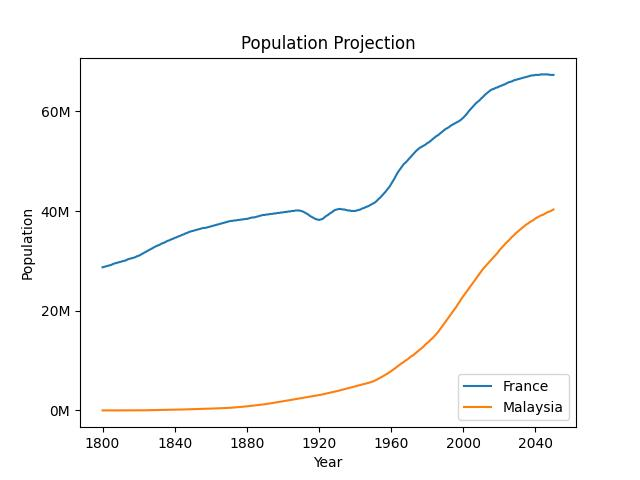
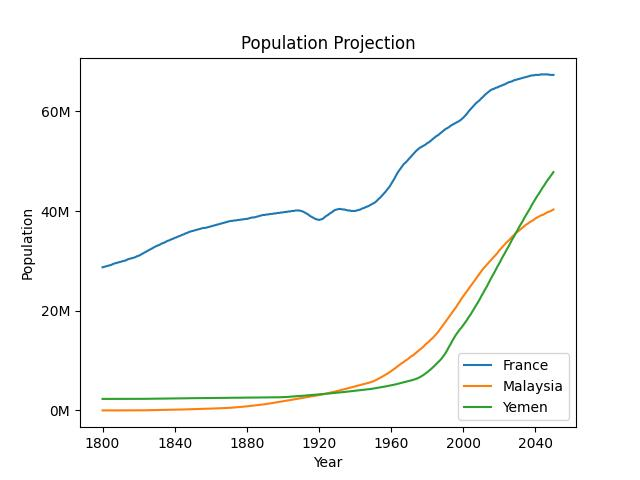
tqdm

diff --git a/python-0-starting/ex03/NULL_not_found.py b/python-0-starting/ex03/NULL_not_found.py
@@ -1,31 +1,18 @@
-# **************************************************************************** #
-#                                                                              #
-#                                                         :::      ::::::::    #
-#    NULL_not_found.py                                  :+:      :+:    :+:    #
-#                                                     +:+ +:+         +:+      #
-#    By: folim <folim@student.42kl.edu.my>          +#+  +:+       +#+         #
-#                                                 +#+#+#+#+#+   +#+            #
-#    Created: 2023/09/18 18:20:52 by folim             #+#    #+#              #
-#    Updated: 2023/09/18 18:20:53 by folim            ###   ########.fr        #
-#                                                                              #
-# **************************************************************************** #
-
-
 def NULL_not_found(object: any) -> int:
-	if object is None:
-		print("Nothing: None", str(type(None)))
-	elif type(object) is float and object != object:
-			print("Cheese: nan", type(object))
-	elif type(object) is int and object == 0:
-		print("Zero: 0", type(object))
-	elif type(object) is str and object == "":
-		print("Empty:", type(object))
-	elif type(object) is bool and object is False:
-		print("Fake: False", type(object))
-	else:
-		print("Type not Found")
-		return 1
-	return 0
-	
-#object != object is simillar to NaN, defined to be not
-#equal to itself
+    if object is None:
+        print("Nothing: None", str(type(None)))
+    elif type(object) is float and object != object:
+        print("Cheese: nan", type(object))
+    elif type(object) is int and object == 0:
+        print("Zero: 0", type(object))
+    elif type(object) is str and object == "":
+        print("Empty:", type(object))
+    elif type(object) is bool and object is False:
+        print("Fake: False", type(object))
+    else:
+        print("Type not Found")
+        return 1
+    return 0
+
+    # object != object is simillar to NaN, defined to be not
+    # equal to itself

diff --git a/python-0-starting/ex04/whatis.py b/python-0-starting/ex04/whatis.py
@@ -1,43 +1,32 @@
-# **************************************************************************** #
-#                                                                              #
-#                                                         :::      ::::::::    #
-#    whatis.py                                          :+:      :+:    :+:    #
-#                                                     +:+ +:+         +:+      #
-#    By: folim <folim@student.42kl.edu.my>          +#+  +:+       +#+         #
-#                                                 +#+#+#+#+#+   +#+            #
-#    Created: 2023/09/18 22:22:16 by folim             #+#    #+#              #
-#    Updated: 2023/09/18 22:22:17 by folim            ###   ########.fr        #
-#                                                                              #
-# **************************************************************************** #
-
 import sys
 
+
 def count_argv(argv):
-	count = 0
-	for _ in argv[1:]:
-		count += 1
-	return count
+    count = 0
+    for _ in argv[1:]:
+        count += 1
+    return count
 
 
 if count_argv(sys.argv) < 1:
-	sys.exit(1)
+    sys.exit(1)
 try:
-	if count_argv(sys.argv) > 1:
-		raise AssertionError("more than one argument is provided")
+    if count_argv(sys.argv) > 1:
+        raise AssertionError("more than one argument is provided")
 except AssertionError as e:
-	print(f"AssertionError: {e}")
-	sys.exit(1)
+    print(f"AssertionError: {e}")
+    sys.exit(1)
 
 try:
-	number = int(sys.argv[1])
+    number = int(sys.argv[1])
 except ValueError:
-	try:
-		raise AssertionError("argument is not an integer")
-	except AssertionError as e:
-		print(f"AssertionError: {e}")
-		sys.exit(1)
+    try:
+        raise AssertionError("argument is not an integer")
+    except AssertionError as e:
+        print(f"AssertionError: {e}")
+        sys.exit(1)
 
 if number % 2 == 0:
-	print("I'm Even.")
+    print("I'm Even.")
 elif number % 2 != 0:
-	print("I'm Odd.")
+    print("I'm Odd.")

diff --git a/python-0-starting/ex02/find_ft_type.py b/python-0-starting/ex02/find_ft_type.py
@@ -1,27 +1,14 @@
-# **************************************************************************** #
-#                                                                              #
-#                                                         :::      ::::::::    #
-#    find_ft_type.py                                    :+:      :+:    :+:    #
-#                                                     +:+ +:+         +:+      #
-#    By: folim <folim@student.42kl.edu.my>          +#+  +:+       +#+         #
-#                                                 +#+#+#+#+#+   +#+            #
-#    Created: 2023/09/18 17:17:31 by folim             #+#    #+#              #
-#    Updated: 2023/09/18 17:17:33 by folim            ###   ########.fr        #
-#                                                                              #
-# **************************************************************************** #
-
 def all_thing_is_obj(object: any) -> int:
-	if type(object) is list:
-		print("List :", type(object))
-	if type(object) is tuple:
-		print("Tuple :", type(object))
-	if type(object) is set:
-		print("Set :", type(object))
-	if type(object) is dict:
-		print("Dict :", type(object))
-	if type(object) is str:
-		print(object, "is in the kitchen :", type(object))
-	if type(object) is int:
-		print("Type not found")
-	return 42
-	
+    if type(object) is list:
+        print("List :", type(object))
+    if type(object) is tuple:
+        print("Tuple :", type(object))
+    if type(object) is set:
+        print("Set :", type(object))
+    if type(object) is dict:
+        print("Dict :", type(object))
+    if type(object) is str:
+        print(object, "is in the kitchen :", type(object))
+    if type(object) is int:
+        print("Type not found")
+    return 42

diff --git a/python-0-starting/ex01/format_ft_time.py b/python-0-starting/ex01/format_ft_time.py
@@ -1,23 +1,12 @@
-# **************************************************************************** #
-#                                                                              #
-#                                                         :::      ::::::::    #
-#    format_ft_time.py                                  :+:      :+:    :+:    #
-#                                                     +:+ +:+         +:+      #
-#    By: folim <folim@student.42kl.edu.my>          +#+  +:+       +#+         #
-#                                                 +#+#+#+#+#+   +#+            #
-#    Created: 2023/09/18 16:20:33 by folim             #+#    #+#              #
-#    Updated: 2023/09/18 16:20:34 by folim            ###   ########.fr        #
-#                                                                              #
-# **************************************************************************** #
-
 from datetime import datetime
 
-start_date = datetime(1970, 1,1)
+start_date = datetime(1970, 1, 1)
 end_date = datetime.now()
 
-duration = (end_date - start_date).total_seconds()
-formatted_duration = f"{duration:,.4f}"
-scientific_duration = f"{duration:.2e}"
+dur = (end_date - start_date).total_seconds()
+formatted_dur = f"{dur:,.4f}"
+scientific_dur = f"{dur:.2e}"
 
-print("Seconds since", start_date.strftime("%b %d, %Y")+":", formatted_duration,"or", scientific_duration, "in scientific notation")
+print("Seconds since", start_date.strftime("%b %d, %Y")+":",
+      formatted_dur, "or", scientific_dur, "in scientific notation")
 print(end_date.strftime("%b %d, %Y"))

diff --git a/python-0-starting/ex02/tester.py b/python-0-starting/ex02/tester.py
@@ -1,20 +1,10 @@
-# **************************************************************************** #
-#                                                                              #
-#                                                         :::      ::::::::    #
-#    tester.py                                          :+:      :+:    :+:    #
-#                                                     +:+ +:+         +:+      #
-#    By: folim <folim@student.42kl.edu.my>          +#+  +:+       +#+         #
-#                                                 +#+#+#+#+#+   +#+            #
-#    Created: 2023/09/18 17:20:08 by folim             #+#    #+#              #
-#    Updated: 2023/09/18 17:20:09 by folim            ###   ########.fr        #
-#                                                                              #
-# **************************************************************************** #
-
 from find_ft_type import all_thing_is_obj
+
+
 ft_list = ["Hello", "tata!"]
 ft_tuple = ("Hello", "toto!")
 ft_set = {"Hello", "tutu!"}
-ft_dict = {"Hello" : "titi!"}
+ft_dict = {"Hello": "titi!"}
 all_thing_is_obj(ft_list)
 all_thing_is_obj(ft_tuple)
 all_thing_is_obj(ft_set)

diff --git a/python-0-starting/ex00/Hello.py b/python-0-starting/ex00/Hello.py
@@ -1,21 +1,9 @@
-# **************************************************************************** #
-#                                                                              #
-#                                                         :::      ::::::::    #
-#    Hello.py                                           :+:      :+:    :+:    #
-#                                                     +:+ +:+         +:+      #
-#    By: folim <folim@student.42kl.edu.my>          +#+  +:+       +#+         #
-#                                                 +#+#+#+#+#+   +#+            #
-#    Created: 2023/09/18 15:07:48 by folim             #+#    #+#              #
-#    Updated: 2023/09/18 15:07:52 by folim            ###   ########.fr        #
-#                                                                              #
-# **************************************************************************** #
 
 ft_list = ["Hello", "tata!"]
 ft_tuple = ("Hello", "toto!")
 ft_set = {"Hello", "tutu!"}
-ft_dict = {"Hello" : "titi!"}
+ft_dict = {"Hello": "titi!"}
 
-#your code here
 ft_list[1] = "World!"
 ft_tuple = ft_tuple[0:1] + ("Malaysia!",)
 ft_set.discard("tutu!")

diff --git a/python-0-starting/ex03/tester.py b/python-0-starting/ex03/tester.py
@@ -1,16 +1,5 @@
-# **************************************************************************** #
-#                                                                              #
-#                                                         :::      ::::::::    #
-#    tester.py                                          :+:      :+:    :+:    #
-#                                                     +:+ +:+         +:+      #
-#    By: folim <folim@student.42kl.edu.my>          +#+  +:+       +#+         #
-#                                                 +#+#+#+#+#+   +#+            #
-#    Created: 2023/09/18 18:37:01 by folim             #+#    #+#              #
-#    Updated: 2023/09/18 18:37:03 by folim            ###   ########.fr        #
-#                                                                              #
-# **************************************************************************** #
-
 from NULL_not_found import NULL_not_found
+
 Nothing = None
 Garlic = float("NaN")
 Zero = 0

diff --git a/python-2-datatable/ex02/aff_pop.py b/python-2-datatable/ex02/aff_pop.py
@@ -37,11 +37,13 @@ def main():
     csv.iloc[:, 1:] = csv.iloc[:, 1:].map(convert_to_numeric)
     country1 = csv[csv['country'] == 'France']
     country2 = csv[csv['country'] == 'Malaysia']
+    # country3 = csv[csv['country'] == 'Yemen']
     year = csv.columns[1:].astype(int).values
     year_2050 = year[year <= 2050]
     col_2050yr = len(year_2050) + 1
     plt.plot(year_2050, country1.values[0][1:col_2050yr], label='France')
     plt.plot(year_2050, country2.values[0][1:col_2050yr], label='Malaysia')
+    # plt.plot(year_2050, country3.values[0][1:col_2050yr], label='Yemen')
     plt.title('Population Projection')
 
     # x-axis

diff --git a/python-0-starting/ex08/Loading.py b/python-0-starting/ex08/Loading.py
@@ -1,0 +1,15 @@
+import time
+import shutil
+from datetime import datetime
+
+
+def ft_tqdm(lst:range) -> None:
+    total = len(lst)
+    prog_bar_w = shutil.get_terminal_size().columns - 40
+    for i, item in enumerate(lst, start=1):
+        progress = int(i / total * prog_bar_w)
+        progress_percentage = int(progress / prog_bar_w * 100)
+        progress_bar = f"|{'█' * progress:<{prog_bar_w}}|"
+        progress_info = f"{progress_percentage}%{progress_bar} {i}/{total}"
+        print(f"\r{progress_info}", end="", flush=True)
+        yield item

diff --git a/python-0-starting/ex08/tester.py b/python-0-starting/ex08/tester.py
@@ -1,9 +1,12 @@
 from time import sleep
 from tqdm import tqdm
-# from Loading import ft_tqdm
-# for elem in ft_tqdm(range(333)):
-# sleep(0.005)
-# print()
+from Loading import ft_tqdm
+
+for elem in ft_tqdm(range(333)):
+    sleep(0.005)
+print()
+
+
 for elem in tqdm(range(333)):
     sleep(0.005)
 print()
